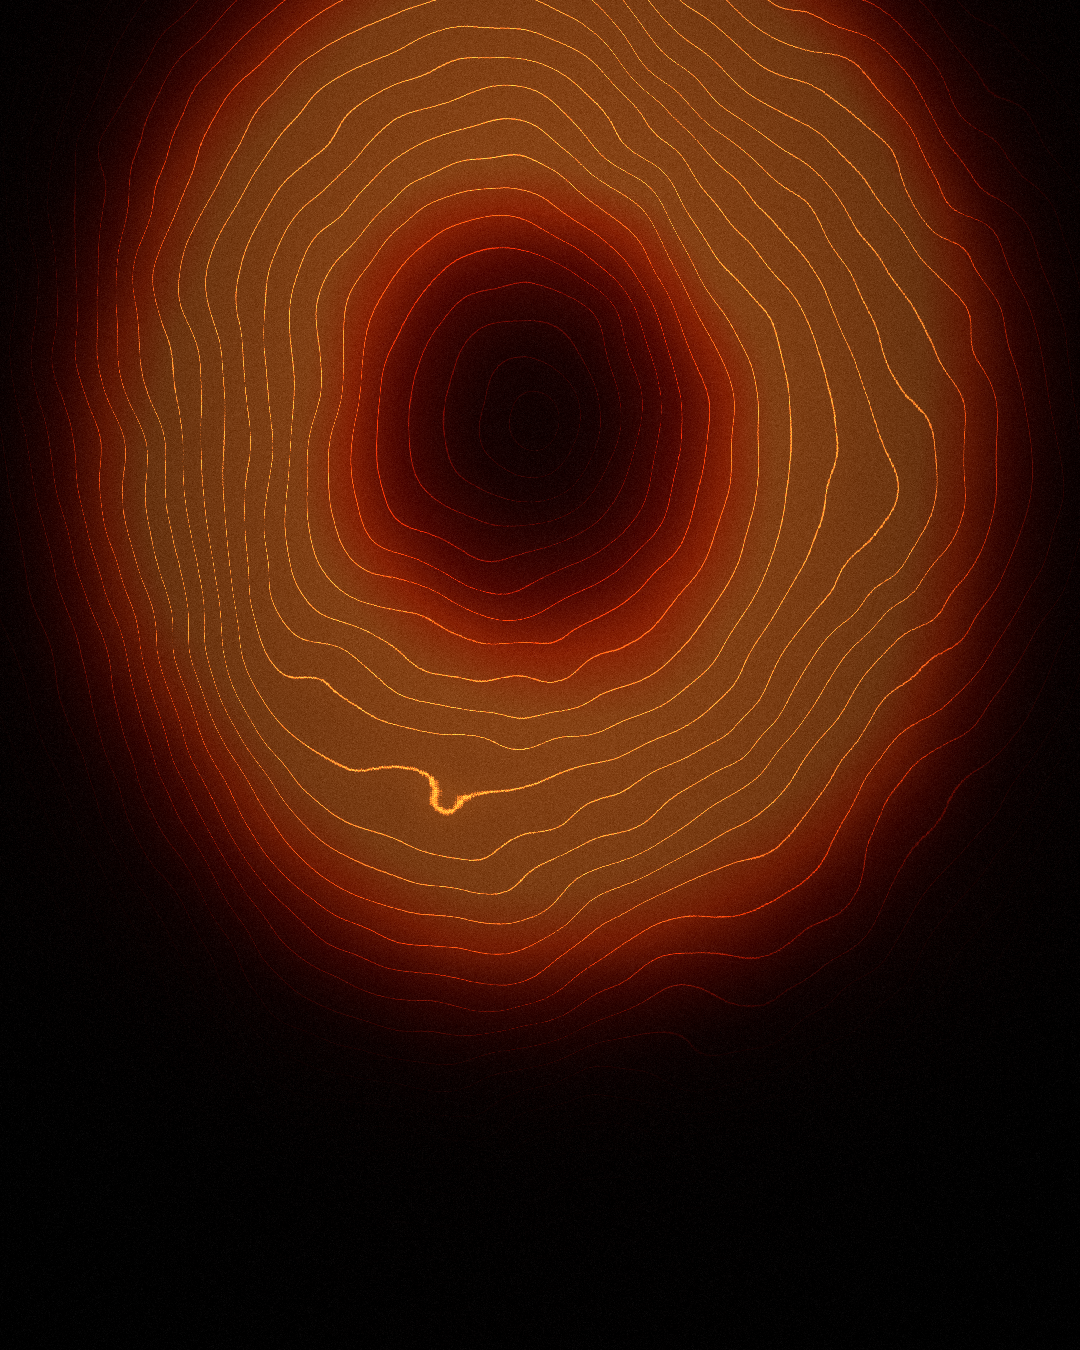
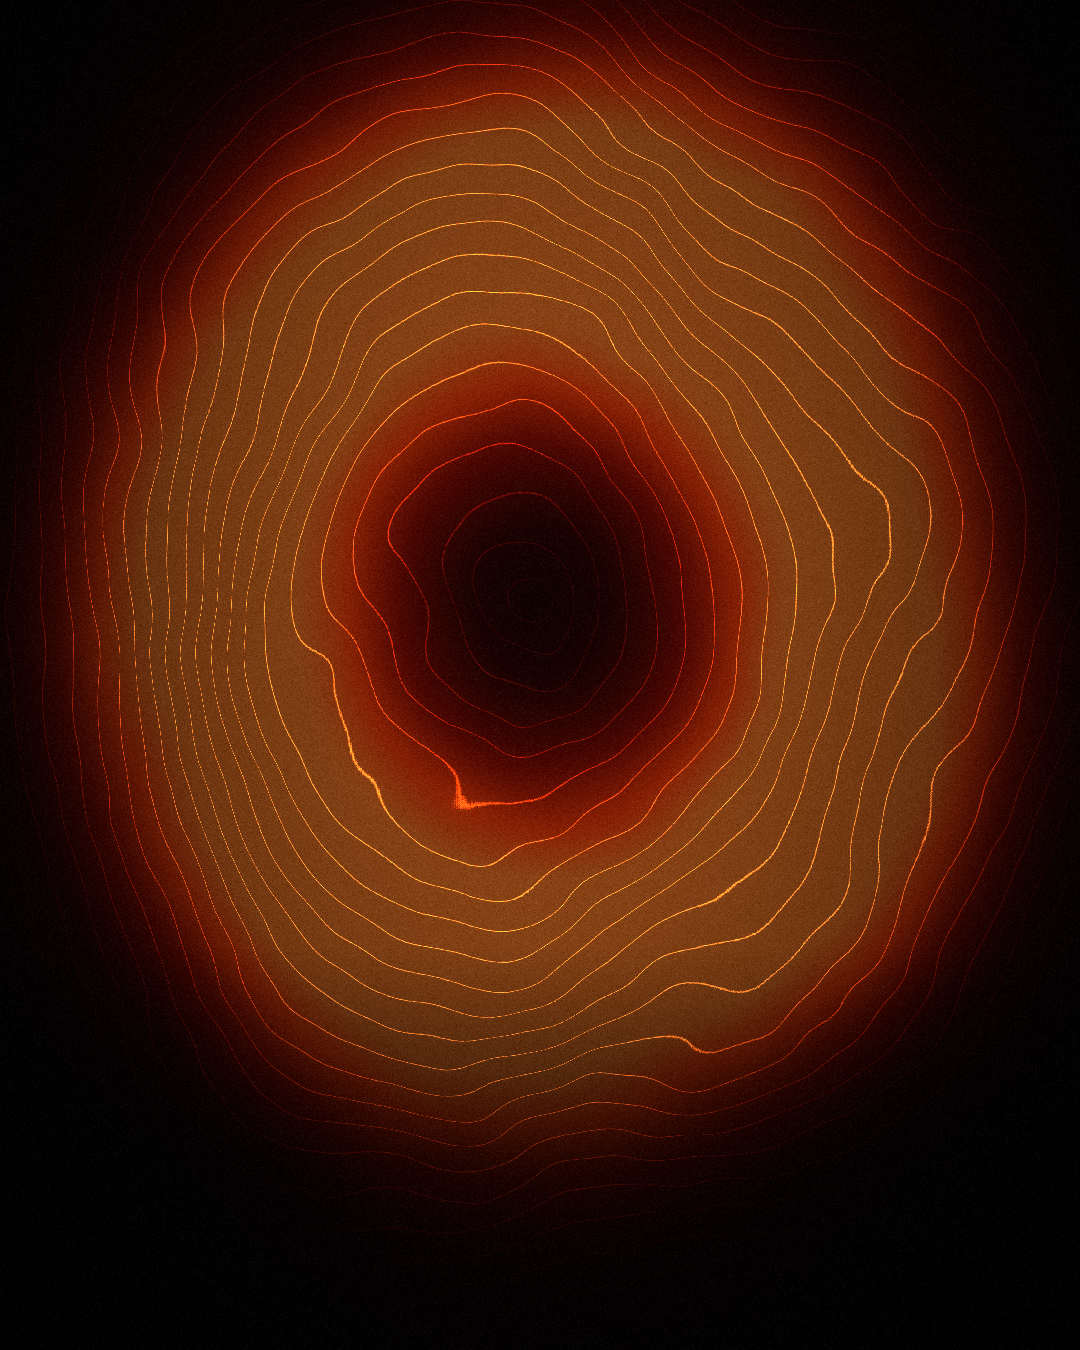
WARM 24.10 — hartă termică cu centrul cercurilor coborât (y 430 → 600)
Claude-Session: https://claude.ai/code/session_01PsYJ7xTqRMzxVLnVuQx1Lt

diff --git a/warm_24oct/bg_thermal.py b/warm_24oct/bg_thermal.py
@@ -11,7 +11,7 @@ def fbm(oct=5,base=3):
         out+=amp*np.asarray(im,np.float32)/255; tot+=amp; amp*=0.5
     return out/tot
 yy,xx=np.mgrid[0:H,0:W].astype(np.float32)
-cx,cy=540,430
+cx,cy=540,600
 dx=(xx-cx)/W; dy=(yy-cy)/H*1.05
 d=np.sqrt(dx**2+dy**2)
 n1=fbm(5,2); n2=fbm(4,3)
